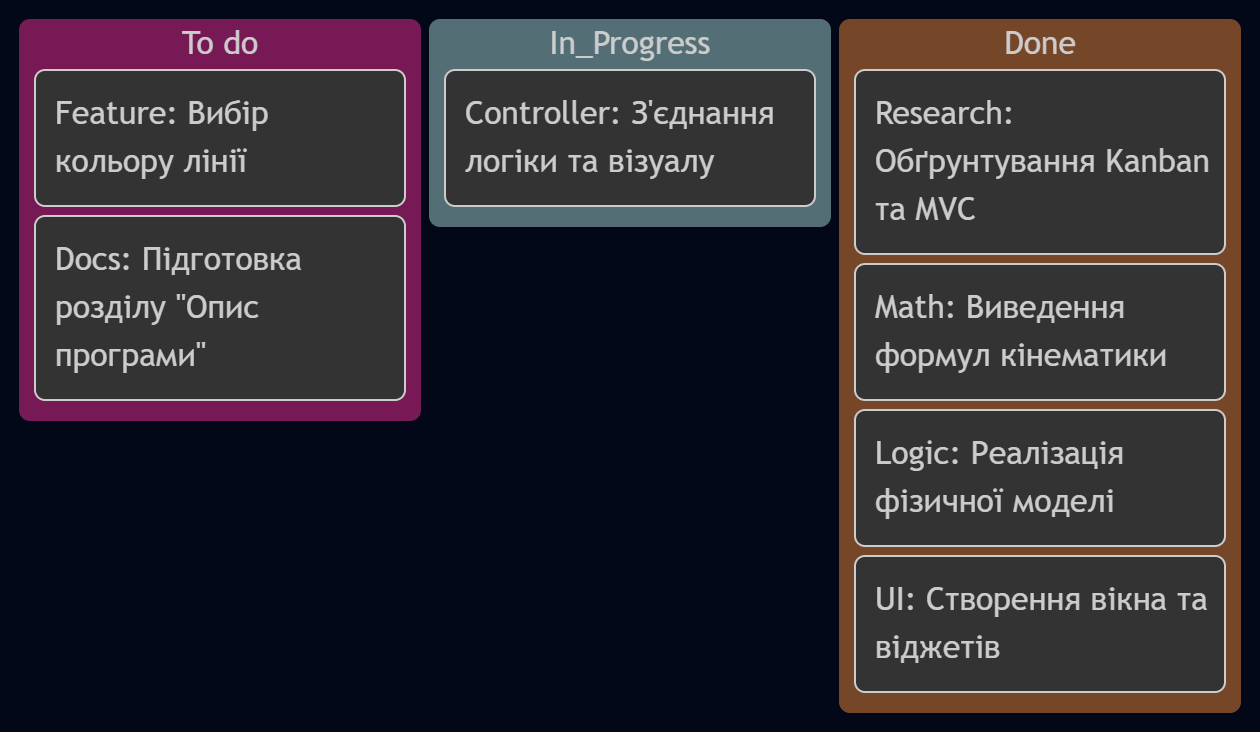
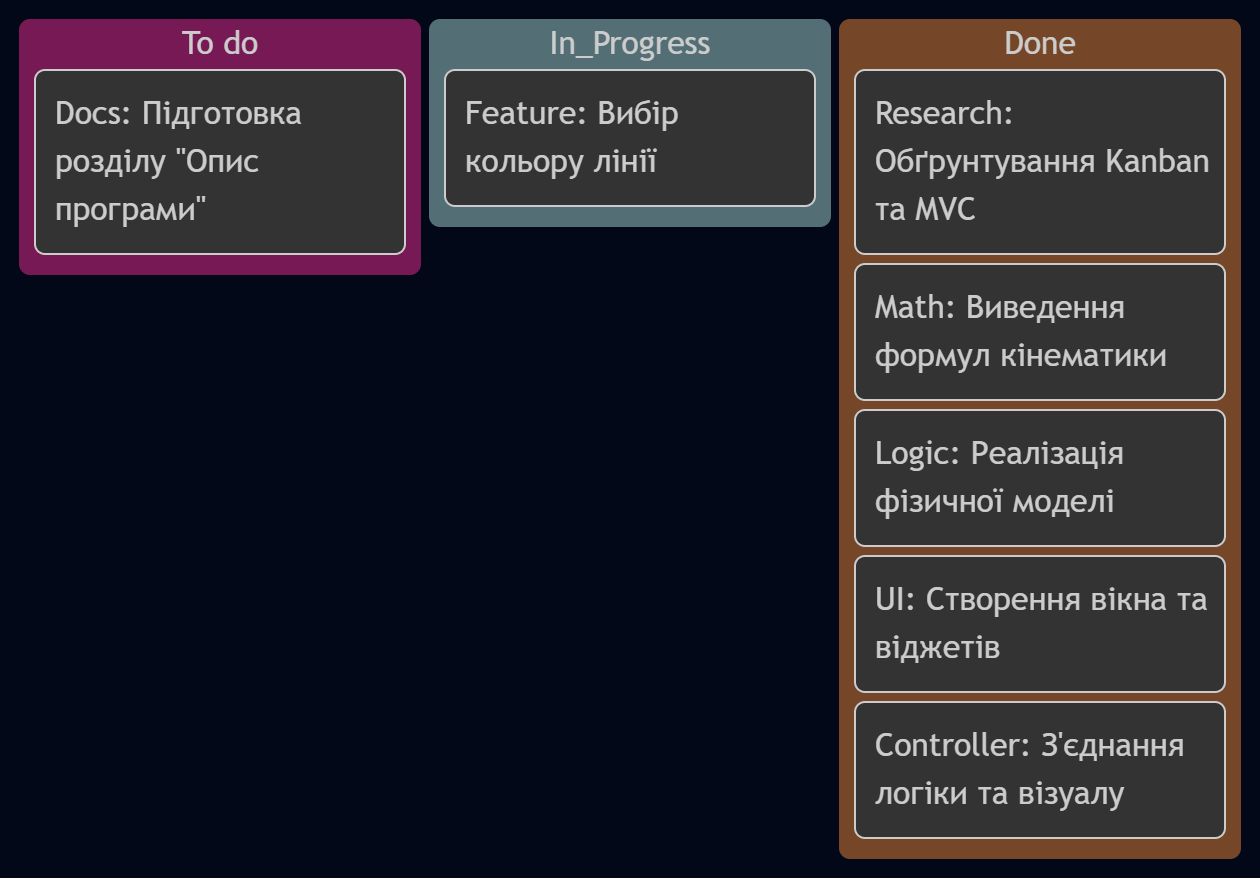
Feature: Вибір кольору лінії

Changed region(s): [[0.0, 0.0, 0.9905, 0.6011], [0.681, 0.3907, 0.9905, 0.9918], [0.681, 0.3306, 0.9905, 0.3607]]

diff --git a/project/main.py b/project/main.py
@@ -1,16 +1,29 @@
 import matplotlib.pyplot as plt
+from tkinter import colorchooser, Tk
 from physics import PhysicalBody
 from ui_view import SimulationUI
 
 
 class SimulationController:
     def __init__(self):
+        self.root = Tk()
+        self.root.withdraw()
+
         self.ui = SimulationUI()
 
         self.ui.btn_draw.on_clicked(self.draw)
         self.ui.btn_clear.on_clicked(self.clear)
+        self.ui.btn_color.on_clicked(self.choose_color)
 
         self.lines = []
+
+    def choose_color(self, _):
+        """Викликає системне вікно вибору кольору"""
+        color = colorchooser.askcolor(title="Оберіть колір для наступної лінії")[1]
+        if color:
+            self.ui.current_color = color
+            self.ui.btn_color.color = color
+            plt.draw()
 
     def draw(self, _):
         """Зчитування даних та побудова графіка"""
@@ -27,10 +40,11 @@ class SimulationController:
 
             x, y = body.calculate()
 
-            line, = self.ui.ax.plot(x, y, color='blue', lw=2)
+            line, = self.ui.ax.plot(x, y, color=self.ui.current_color, lw=2, label=f"v={d['v0']}, a={d['a']}")
             self.lines.append(line)
 
             # оновлює межі графіка, щоб він підлаштовувався під нові точки
+            self.ui.ax.legend()
             self.ui.ax.relim()
             self.ui.ax.autoscale_view()
             plt.draw()
@@ -43,6 +57,8 @@ class SimulationController:
         for line in self.lines:
             line.remove()
         self.lines.clear()
+        if self.ui.ax.get_legend():
+            self.ui.ax.get_legend().remove()
         plt.draw()
 
 

diff --git a/project/ui_view.py b/project/ui_view.py
@@ -30,15 +30,16 @@ class SimulationUI:
             self.inputs[label] = TextBox(ax_box, f'{label}: ', initial=val)
             self.inputs[label].label.set_position((-0.3, 0.5))
 
+        self.ax_color_btn = plt.axes([panel_x - 0.02, 0.4, input_w + 0.04, 0.06])
+        self.btn_color = Button(self.ax_color_btn, 'Колір лінії', color='lightblue')
+
         self.ax_draw_btn = plt.axes([panel_x - 0.02, 0.3, input_w + 0.04, 0.08])
         self.btn_draw = Button(self.ax_draw_btn, 'Малювати', color='lightgreen')
 
         self.ax_clear_btn = plt.axes([panel_x - 0.02, 0.2, input_w + 0.04, 0.08])
         self.btn_clear = Button(self.ax_clear_btn, 'Очистити', color='salmon')
 
-        # колір за замовчуванням (поки не реалізовано вибору кольору)
         self.current_color = 'blue'
 
     def show(self):
         plt.show()
-
